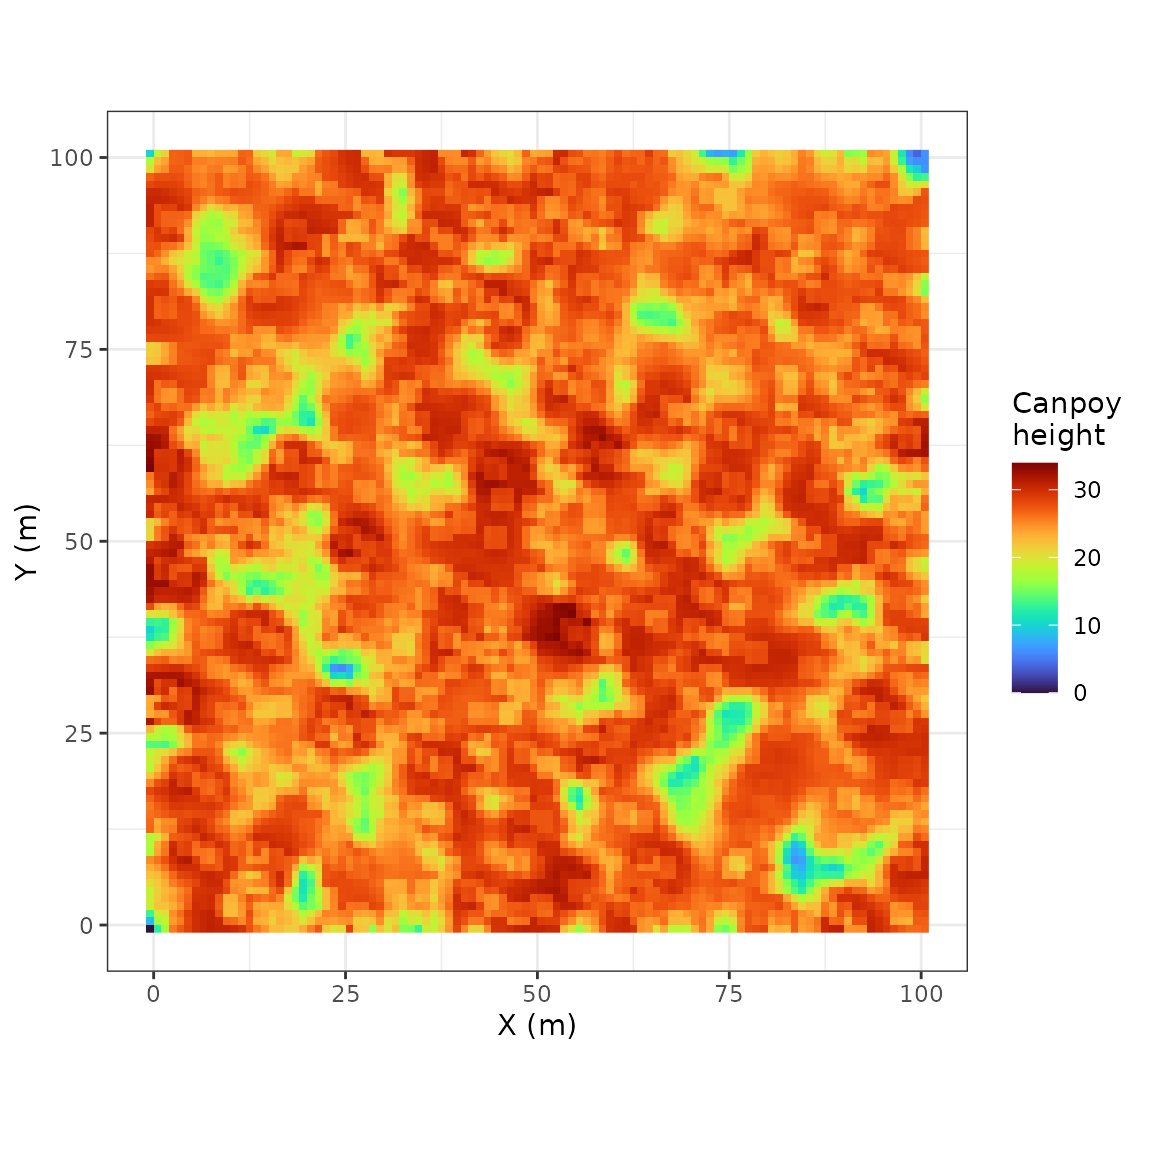
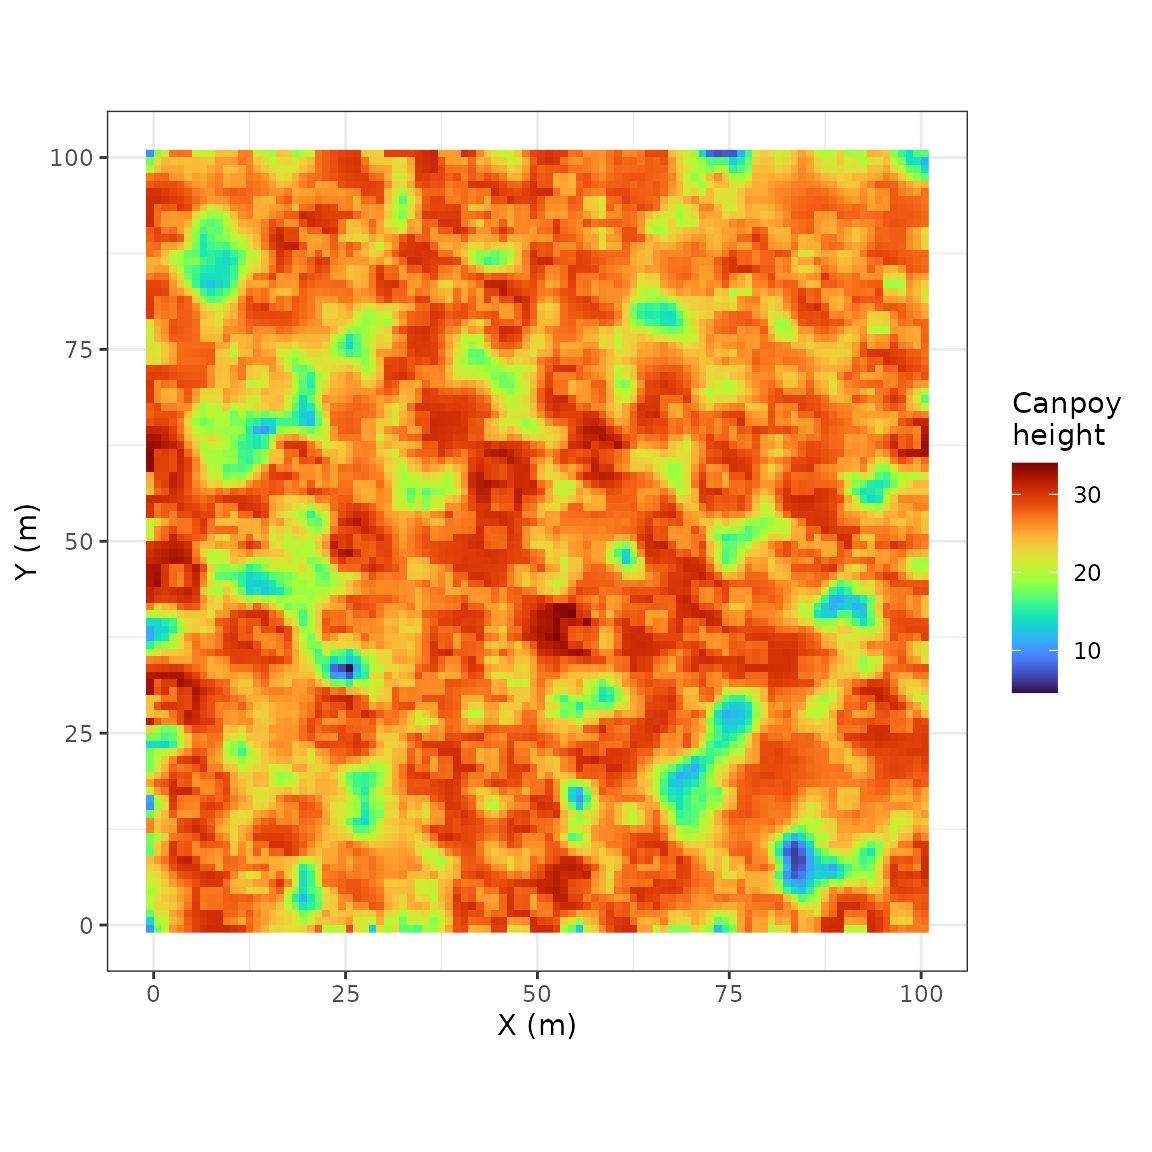
Deploying to gh-pages from @ sylvainschmitt/rcontroll@28c1a70de7f302268c6b6f73676552f9d8616423 🚀

diff --git a/articles/lidar.html b/articles/lidar.html
@@ -163,10 +163,10 @@ simulation status:</p>
 <span><span class="co">#&gt; memory       : 5 Mb </span></span>
 <span><span class="co">#&gt; extent       : 0, 100, 0, 100 (xmin, xmax, ymin, ymax)</span></span>
 <span><span class="co">#&gt; coord. ref.  : NA </span></span>
-<span><span class="co">#&gt; area         : 10016 units²</span></span>
-<span><span class="co">#&gt; points       : 145.3 thousand points</span></span>
-<span><span class="co">#&gt; density      : 14.5 points/units²</span></span>
-<span><span class="co">#&gt; density      : 9.61 pulses/units²</span></span></code></pre></div>
+<span><span class="co">#&gt; area         : 10020 units²</span></span>
+<span><span class="co">#&gt; points       : 144.9 thousand points</span></span>
+<span><span class="co">#&gt; density      : 14.46 points/units²</span></span>
+<span><span class="co">#&gt; density      : 9.58 pulses/units²</span></span></code></pre></div>
 <div class="sourceCode" id="cb5"><pre class="downlit sourceCode r">
 <code class="sourceCode R"><span><span class="fu">lidR</span><span class="fu">::</span><span class="fu"><a href="https://rdrr.io/pkg/lidR/man/plot.html" class="external-link">plot</a></span><span class="op">(</span><span class="va">sim</span><span class="op">@</span><span class="va">las</span><span class="op">[[</span><span class="fl">1</span><span class="op">]</span><span class="op">]</span><span class="op">)</span></span></code></pre></div>
 <blockquote>
@@ -185,8 +185,8 @@ extract the canopy height model from the point cloud as a raster:</p>
 <span><span class="co">#&gt; coord. ref. :  </span></span>
 <span><span class="co">#&gt; source(s)   : memory</span></span>
 <span><span class="co">#&gt; name        : canopy_height </span></span>
-<span><span class="co">#&gt; min value   :       0.00000 </span></span>
-<span><span class="co">#&gt; max value   :      33.93667</span></span></code></pre></div>
+<span><span class="co">#&gt; min value   :       4.57000 </span></span>
+<span><span class="co">#&gt; max value   :      34.00222</span></span></code></pre></div>
 <p><code>rcontroll</code> includes in the <code>autoplot</code> method
 an automatic plot of the canopy height model when choosing
 <code>what = "lidar"</code> (if the lidar simulations as been activated
@@ -260,20 +260,20 @@ simulation status:</p>
 <span><span class="co">#&gt; memory       : 5 Mb </span></span>
 <span><span class="co">#&gt; extent       : 0, 100, 0, 100 (xmin, xmax, ymin, ymax)</span></span>
 <span><span class="co">#&gt; coord. ref.  : NA </span></span>
-<span><span class="co">#&gt; area         : 10016 units²</span></span>
-<span><span class="co">#&gt; points       : 145.3 thousand points</span></span>
-<span><span class="co">#&gt; density      : 14.5 points/units²</span></span>
-<span><span class="co">#&gt; density      : 9.61 pulses/units²</span></span>
+<span><span class="co">#&gt; area         : 10020 units²</span></span>
+<span><span class="co">#&gt; points       : 144.9 thousand points</span></span>
+<span><span class="co">#&gt; density      : 14.46 points/units²</span></span>
+<span><span class="co">#&gt; density      : 9.58 pulses/units²</span></span>
 <span><span class="co">#&gt; </span></span>
 <span><span class="co">#&gt; $`20pc`</span></span>
 <span><span class="co">#&gt; class        : LAS (v1.2 format 0)</span></span>
 <span><span class="co">#&gt; memory       : 5 Mb </span></span>
 <span><span class="co">#&gt; extent       : 0, 100, 0, 100 (xmin, xmax, ymin, ymax)</span></span>
 <span><span class="co">#&gt; coord. ref.  : NA </span></span>
-<span><span class="co">#&gt; area         : 10016 units²</span></span>
-<span><span class="co">#&gt; points       : 145.3 thousand points</span></span>
-<span><span class="co">#&gt; density      : 14.5 points/units²</span></span>
-<span><span class="co">#&gt; density      : 9.61 pulses/units²</span></span></code></pre></div>
+<span><span class="co">#&gt; area         : 10020 units²</span></span>
+<span><span class="co">#&gt; points       : 144.9 thousand points</span></span>
+<span><span class="co">#&gt; density      : 14.46 points/units²</span></span>
+<span><span class="co">#&gt; density      : 9.58 pulses/units²</span></span></code></pre></div>
 <div class="sourceCode" id="cb11"><pre class="downlit sourceCode r">
 <code class="sourceCode R"><span><span class="fu">lidR</span><span class="fu">::</span><span class="fu"><a href="https://rdrr.io/pkg/lidR/man/plot.html" class="external-link">plot</a></span><span class="op">(</span><span class="va">sim_stack</span><span class="op">@</span><span class="va">las</span><span class="op">[[</span><span class="fl">2</span><span class="op">]</span><span class="op">]</span><span class="op">)</span></span></code></pre></div>
 <p><code>rcontroll</code> includes a <code>get_chm</code> method to
@@ -288,8 +288,8 @@ extract the canopy height model from the point clouds as a raster:</p>
 <span><span class="co">#&gt; coord. ref. :  </span></span>
 <span><span class="co">#&gt; source(s)   : memory</span></span>
 <span><span class="co">#&gt; name        : canopy_height </span></span>
-<span><span class="co">#&gt; min value   :       0.00000 </span></span>
-<span><span class="co">#&gt; max value   :      33.93667 </span></span>
+<span><span class="co">#&gt; min value   :       4.57000 </span></span>
+<span><span class="co">#&gt; max value   :      34.00222 </span></span>
 <span><span class="co">#&gt; </span></span>
 <span><span class="co">#&gt; $`20pc`</span></span>
 <span><span class="co">#&gt; class       : SpatRaster </span></span>
@@ -299,8 +299,8 @@ extract the canopy height model from the point clouds as a raster:</p>
 <span><span class="co">#&gt; coord. ref. :  </span></span>
 <span><span class="co">#&gt; source(s)   : memory</span></span>
 <span><span class="co">#&gt; name        : canopy_height </span></span>
-<span><span class="co">#&gt; min value   :       0.00000 </span></span>
-<span><span class="co">#&gt; max value   :      33.93667</span></span></code></pre></div>
+<span><span class="co">#&gt; min value   :       4.57000 </span></span>
+<span><span class="co">#&gt; max value   :      34.00222</span></span></code></pre></div>
 <p><code>rcontroll</code> includes in the <code>autoplot</code> method
 an automatic plot of the canopy height model when choosing
 <code>what = "lidar"</code> (if the lidar simulations as been activated

diff --git a/news/index.html b/news/index.html
@@ -67,6 +67,10 @@
     </div>
 
     <div class="section level2">
+<h2 class="page-header" data-toc-text="0.1.0.9003" id="rcontroll-0109003">rcontroll 0.1.0.9003<a class="anchor" aria-label="anchor" href="#rcontroll-0109003"></a></h2>
+<ul><li>TROLL version 3.1.8 following discussion with IM, updating treefall time normalisation and carbon starvation to match TROLL4, a clean merge with main and dev will be needed</li>
+</ul></div>
+    <div class="section level2">
 <h2 class="page-header" data-toc-text="0.1.1.9002" id="rcontroll-0119002">rcontroll 0.1.1.9002<a class="anchor" aria-label="anchor" href="#rcontroll-0119002"></a></h2>
 <ul><li>lidr fig</li>
 </ul></div>
@@ -420,7 +424,7 @@
 <ul><li>TROLL binaries for unix <a href="https://github.com/sylvainschmitt/rcontroll/issues/1" class="external-link">#1</a></li>
 </ul></div>
     <div class="section level2">
-<h2 class="page-header" data-toc-text="0.1.0.9003" id="rcontroll-0109003">rcontroll 0.1.0.9003<a class="anchor" aria-label="anchor" href="#rcontroll-0109003"></a></h2>
+<h2 class="page-header" data-toc-text="0.1.0.9003" id="rcontroll-0109003-1">rcontroll 0.1.0.9003<a class="anchor" aria-label="anchor" href="#rcontroll-0109003-1"></a></h2>
 <ul><li>opened dev branch</li>
 <li>opened documentation for data <a href="https://github.com/sylvainschmitt/rcontroll/issues/10" class="external-link">#10</a></li>
 </ul></div>

diff --git a/reference/TROLL.version.html b/reference/TROLL.version.html
@@ -88,7 +88,7 @@
     <h2>Examples</h2>
     <div class="sourceCode"><pre class="sourceCode r"><code><span class="r-in"><span></span></span>
 <span class="r-in"><span><span class="fu">TROLL.version</span><span class="op">(</span><span class="op">)</span></span></span>
-<span class="r-out co"><span class="r-pr">#&gt;</span> [1] "TROLL version 3.1.7"</span>
+<span class="r-out co"><span class="r-pr">#&gt;</span> [1] "TROLL version 3.1.8"</span>
 <span class="r-in"><span></span></span>
 </code></pre></div>
     </div>
